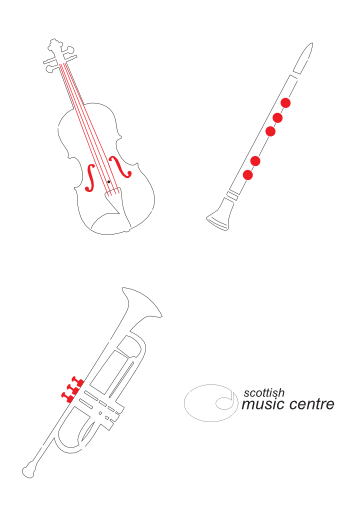
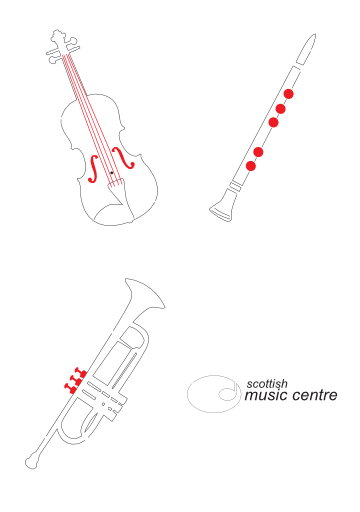
instruments laser template into readme

diff --git a/README.md b/README.md
@@ -13,7 +13,7 @@ Components
 - Raspberry Pi
 - RPi.GPIO/PWM
 
-![Prototype](/photos/prototype.jpg)
+![Prototype](/photos/prototype.jpg) ![Instruments Laser Template](/laser/instrumentsSmall.png)
 
 Process
 -------
